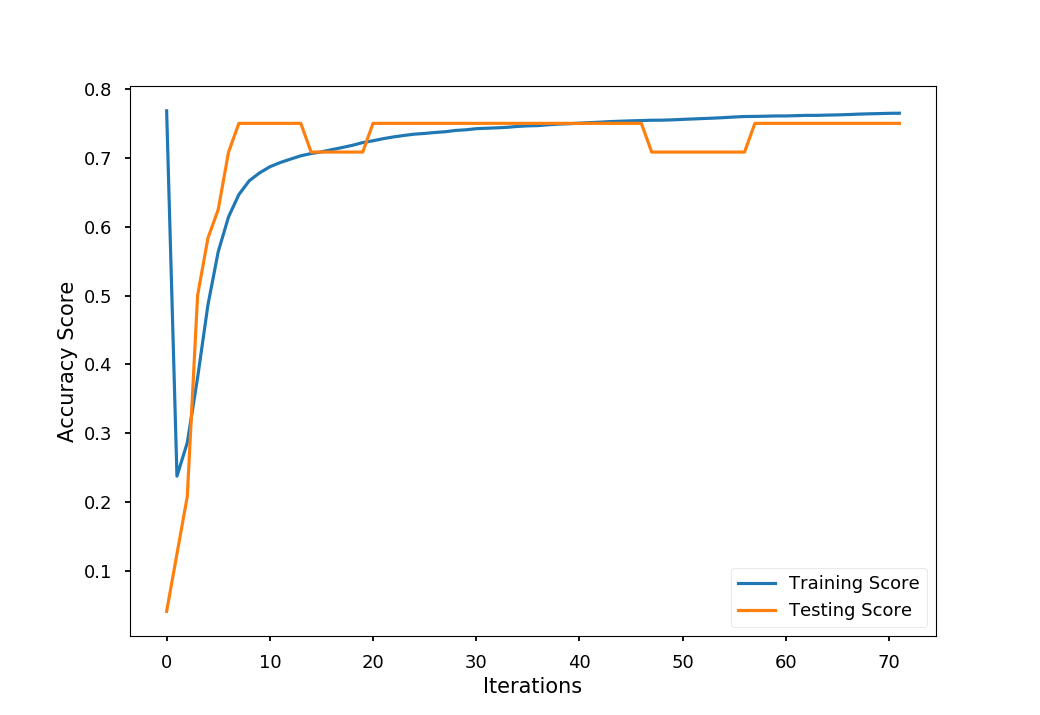
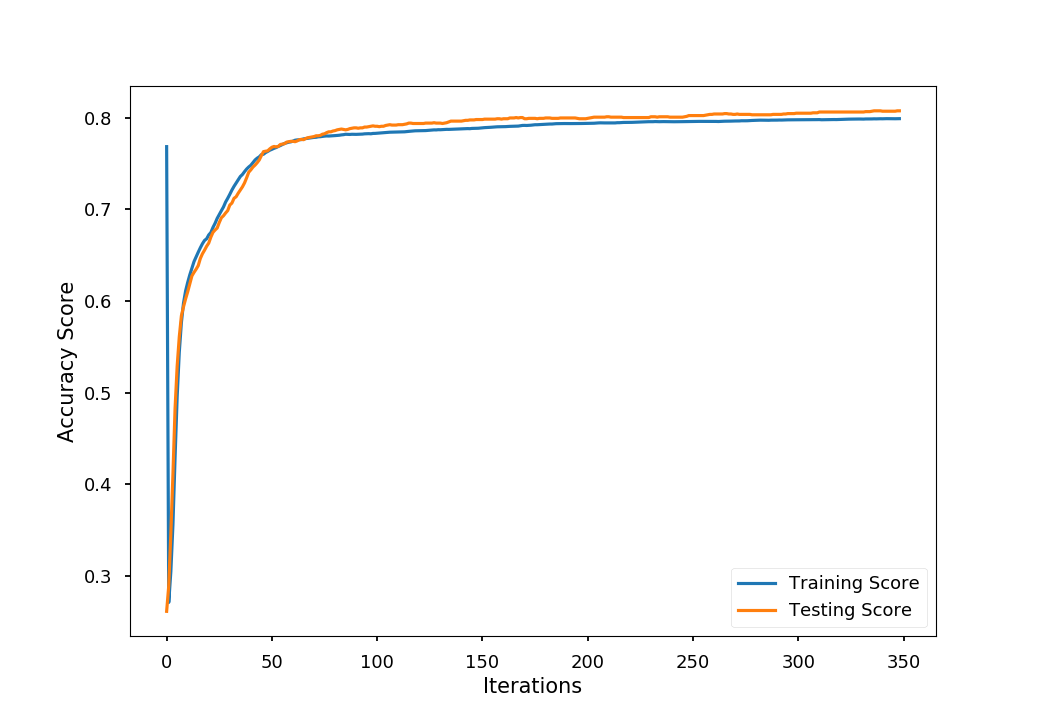
Added figures for neural net classifier

diff --git a/main_neuralnet.py b/main_neuralnet.py
@@ -20,7 +20,7 @@ nn_clf = NeuralNetClassifier(
 
 
 X, y = nn_clf.read_credit_card_file(xls_file)
-X_train, X_test, y_train, y_test = nn_clf.train_test_split(X, y, test_size=0.001, random_state=4)
+X_train, X_test, y_train, y_test = nn_clf.train_test_split(X, y, test_size=0.1, random_state=4)
 nn_clf.initialize_weights(X_train, y_train)
 train_loss, test_loss, train_score, test_score = nn_clf.fit(X_train, y_train, X_test, y_test)
 
@@ -36,7 +36,7 @@ plt.show()
 
 plt.style.use("seaborn-talk")
 plt.plot(train_score)
-plt.plot(test_score, "r.")
+plt.plot(test_score)
 plt.legend(["Training Score","Testing Score"])
 plt.xlabel("Iterations", size=15)
 plt.ylabel("Accuracy Score", size=15)
